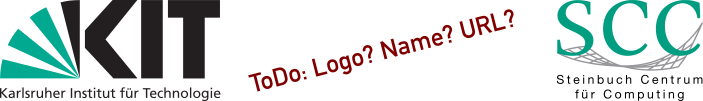
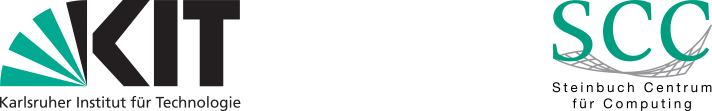
Background geändert.

diff --git a/bits/css/individuell.css b/bits/css/individuell.css
@@ -12,7 +12,7 @@
 	height:110px;
 	z-index: 110;
 	background-color:#fff;
-	background-image: url(../images/individuell/logo260x110.gif);
+	background-image: url(../images/individuell/logo260x110.png);
 	background-repeat:no-repeat;
 	z-index: 110;
 	visibility: visible;
@@ -105,7 +105,7 @@ a:hover {
 	text-align:center;
 	height: 120px;
 	background-image:    url("../images/individuell/kopfbild.png");
-	background-position: left top;
+	background-position: center top;
 	background-repeat:no-repeat;
         margin-bottom: 10px;
 	}
@@ -155,9 +155,9 @@ a:hover {
 #content {
 	position:relative;
 	margin: 0;
-	background-color: #fff;
-	background-image: url(../images/design/bg_beware01.jpg);
-	background-position: top right;
+    background-color: #fff;
+	background-image: url(../images/individuell/kit_background.jpg);
+	background-position: center;
 	background-repeat: no-repeat;
 		}
 #loc_e-mail #content {
